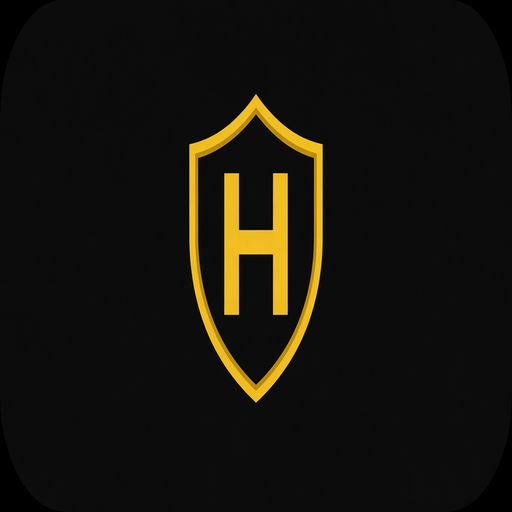
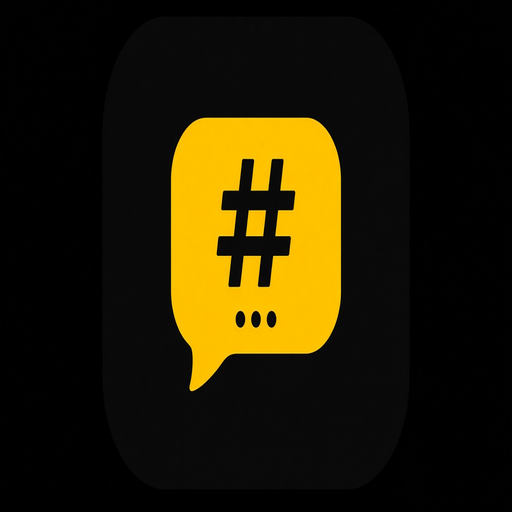
brand: chat-bubble hash + dots mark (black/gold)
Primary logo is a conversation bubble with # and typing dots.
Update Flatpak hicolor icons and branding lockup for README.

Changed region(s): [[0.3125, 0.1875, 0.6875, 0.7812]]

diff --git a/branding/README.md b/branding/README.md
@@ -1,25 +1,16 @@
 # HashChat branding
 
-Visual direction: black + gold (`#FFD700`), SimpleX-like clarity without copying their marks.
+**Name:** HashChat  
+**Colours:** black `#0A0A0A` + gold `#FFD700` (see COLORS.md)
 
-## Canonical lockup
+## Canonical mark
 
-User-approved: **`hashchat-wordmark.png` / `hashchat-lockup.png`** — gold shield + “HashChat” on black.
+Gold **chat bubble** with a **hash (#)** and **typing dots (...)** on black.
 
-## Primary mark
+| File | Use |
+|------|-----|
+| `hashchat-icon-1024.png` / `512.png` / `hashchat-icon.svg` | App / launcher icon |
+| `hashchat-lockup.png` / `hashchat-wordmark.png` | README, stores, splash |
+| Flatpak hicolor | `flatpak/icons/hicolor/*/apps/org.hashchat.HashChat.png` |
 
-Heraldic **shield** in gold (`#FFD700`) on black, with an **H** monogram. No chat-bubble frame.
-
-## Assets
-
-| File | Purpose |
-|------|---------|
-| `hashchat-icon.svg` | Vector source of truth |
-| `hashchat-icon-1024.png` / `512.png` | Master rasters |
-| `hashchat-wordmark.png` | README / store header |
-| `hashchat-foreground.png` | Adaptive / glyph explorations |
-| Flatpak hicolor PNGs | `flatpak/icons/hicolor/*/apps/org.hashchat.HashChat.png` |
-
-## Voice
-
-Product stands for voluntary association, user sovereignty over data and keys, and honest engineering. Keep UI copy short and professional. Do not put political or religious slogans in the chrome; values show up as defaults (Tor, no account, nuclear wipe), not banners.
+Older shield explorations may remain under `alts/` for reference only.
